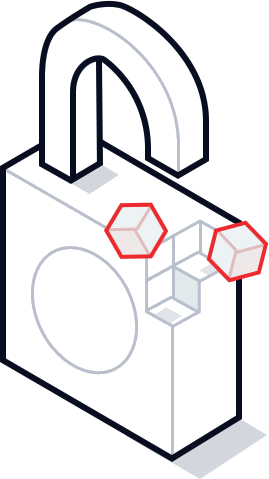
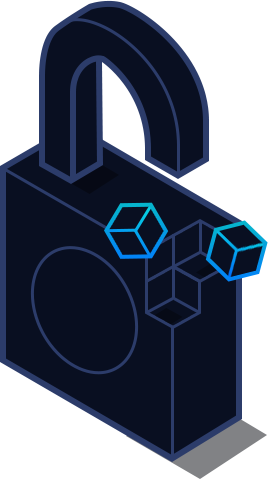
second iteration of dark theme

diff --git a/src/pages/transaction/transaction-send/transaction-send.html b/src/pages/transaction/transaction-send/transaction-send.html
@@ -15,7 +15,7 @@
       <ion-row class="row-contacts">
         <ion-col>
           <ion-item>
-            <ion-label stacked>{{ 'WALLETS_PAGE.ADDRESS' | translate }}</ion-label>
+            <ion-label floating stacked>{{ 'WALLETS_PAGE.ADDRESS' | translate }}</ion-label>
             <ng-template #contactsTemplate let-attrs="attrs">
               <span class="auto-complete-row">
                 <ion-icon [name]="attrs.data.iconName" item-start></ion-icon>
@@ -23,7 +23,7 @@
                   <span [innerHTML]="attrs.data.name | escapeHTML | boldprefix:attrs.keyword"></span>
                   <span class="autocomplete-second-line" [innerHTML]="attrs.data.address | escapeHTML | boldprefix:attrs.keyword"></span>
                 </span>
-                </span>
+              </span>
             </ng-template>
             <ion-auto-complete item-content
                                [dataProvider]="contactsAutoCompleteService"
@@ -38,7 +38,7 @@
                                #searchBar>
             </ion-auto-complete>
             <div class="qr-container" item-right>
-              <img src="./assets/img/light/wallet/qr-code-button.png" tappable (tap)="scanQRCode()" />
+              <img class="image" tappable (tap)="scanQRCode()" />
             </div>
           </ion-item>
         </ion-col>
@@ -46,7 +46,7 @@
       <ion-row *ngIf="transaction.recipientAddress">
         <ion-col>
           <ion-item>
-            <ion-label stacked [ngSwitch]="addressType">
+            <ion-label floating stacked [ngSwitch]="addressType">
               <ng-container *ngSwitchCase="addressTypes.Unknown">{{ 'TRANSACTIONS_PAGE.NEW_CONTACT_NAME' | translate }}</ng-container>
               <ng-container *ngSwitchCase="addressTypes.WalletWithoutLabel">{{ 'TRANSACTIONS_PAGE.NEW_WALLET_LABEL' | translate }}</ng-container>
               <ng-container *ngSwitchCase="addressTypes.WalletWithLabel">{{ 'TRANSACTIONS_PAGE.EXISTING_WALLET' | translate }}</ng-container>
@@ -66,7 +66,7 @@
       <ion-row>
         <ion-col>
           <ion-item>
-            <ion-label stacked>{{ 'TRANSACTIONS_PAGE.SMART_BRIDGE' | translate }}</ion-label>
+            <ion-label floating stacked>{{ 'TRANSACTIONS_PAGE.SMART_BRIDGE' | translate }}</ion-label>
             <ion-input type="text" formControlName="smartBridge" name="smartBridge" [(ngModel)]="transaction.smartBridge" maxlength="60"></ion-input>
           </ion-item>
         </ion-col>

diff --git a/src/pages/transaction/transaction-send/transaction-send.scss b/src/pages/transaction/transaction-send/transaction-send.scss
@@ -18,8 +18,9 @@ page-transaction-send {
     padding-top: 20px;
     margin-left: 8px !important;
 
-    img {
+    .image {
       width: 30px;
+      content: url('../assets/img/light/wallet/qr-code-button.png');
     }
   }
 
@@ -48,7 +49,7 @@ page-transaction-send {
       background-color: transparent !important;
       -webkit-box-shadow: none !important;
       box-shadow: none !important;
-      padding: 6px 35px 6px 10px !important;
+      padding: 6px 35px 6px 0 !important;
     }
 
     ion-list li {
@@ -101,5 +102,36 @@ page-transaction-send {
   .item {
     padding-left: 0;
     background: transparent!important;
+  }
+}
+
+.dark-theme {
+  page-transaction-send {
+    .qr-container .image {
+        content: url('../assets/img/dark/wallet/qr-code-button.png');
+    }
+
+    ion-auto-complete ul {
+      background-color: color($darkColors, secondary-background, base);
+
+      li {
+        border-bottom-color: color($darkColors, primary-background, base);
+      }
+
+      .auto-complete-row {
+        .item-icon {
+          color: #4744f5;
+          -webkit-text-stroke: 0.4px #4744f5;
+        }
+
+        .autocomplete-second-line {
+          color: color($darkColors, secondary, base);
+        }
+      }
+    }
+
+    .icon {
+      color: lighten(color($darkColors, primary-background, base), 50%);
+    }
   }
 }

diff --git a/src/pages/wallet/wallet-dashboard/modal/register-delegate/register-delegate.html b/src/pages/wallet/wallet-dashboard/modal/register-delegate/register-delegate.html
@@ -1,7 +1,7 @@
 <ion-header no-shadow no-border>
 
   <ion-navbar>
-    <h6 text-center class="no-padding no-margin">{{ 'DELEGATES_PAGE.REGISTER_DELEGATE' | translate }}</h6>
+    <h6 padding class="no-margin">{{ 'DELEGATES_PAGE.REGISTER_DELEGATE' | translate }}</h6>
     <ion-buttons end>
       <button ion-button icon-only (click)="closeModal()">
         <ion-icon name="close"></ion-icon>
@@ -17,8 +17,8 @@
       <ion-col align-self-center>
         <form #registerDelegateForm="ngForm">
           <ion-item>
-            <ion-label stacked>{{ 'DELEGATES_PAGE.DELEGATE_NAME' | translate }}</ion-label>
-            <ion-textarea rows="2" type="text" name="name" [(ngModel)]="name" maxlength="20" [pattern]="allowedDelegateNameChars" (input)="validateName()" required></ion-textarea>
+            <ion-label floating stacked>{{ 'DELEGATES_PAGE.DELEGATE_NAME' | translate }}</ion-label>
+            <ion-input rows="2" type="text" name="name" [(ngModel)]="name" maxlength="20" [pattern]="allowedDelegateNameChars" (input)="validateName()" required></ion-input>
           </ion-item>
           <ion-item class="no-border">
             <p class="error-message" *ngIf="isExists">{{ 'DELEGATES_PAGE.USERNAME_ALREADY_EXISTS' | translate }}</p>

diff --git a/src/pages/wallet/wallet-list/wallet-list.scss b/src/pages/wallet/wallet-list/wallet-list.scss
@@ -137,20 +137,22 @@ page-wallet-list {
 
 .dark-theme {
   page-wallet-list {
-    background-color: color($darkColors, primary-background, base);
-
     .toolbar-title,
     .bar-button-default {
       color: #fff !important;
+
+      .icon {
+        color: lighten(color($darkColors, primary-background, base), 50%);
+      }
     }
 
     .content {
       &.normal {
-        background: linear-gradient(0deg, rgba(0,0,0,0) 0%, transparentize(color($darkColors, wallet-normal-gradient, base), 0.80) 70%, color($darkColors, wallet-normal-gradient, base) 100%);
+        background: linear-gradient(0deg, color($darkColors, primary-background, base) 0%, color($darkColors, primary-background, base) 70%, color($darkColors, wallet-normal-gradient, base) 100%);
       }
 
       &.delegate {
-        background: linear-gradient(0deg, rgba(0,0,0,0) 0%, transparentize(color($darkColors, wallet-delegate-gradient, base), 0.80) 70%, color($darkColors, wallet-delegate-gradient, base) 100%);
+        background: linear-gradient(0deg, color($darkColors, primary-background, base) 0%, color($darkColors, primary-background, base) 70%, color($darkColors, wallet-delegate-gradient, base) 100%);
       }
     }
   }

diff --git a/src/app/app.scss b/src/app/app.scss
@@ -298,7 +298,7 @@ ion-app {
       .label {
         color: color($darkColors, secondary, base);
 
-        h3 {
+        h3, h6 {
           color: #fff;
         }
 
@@ -370,6 +370,14 @@ ion-app {
       color: #fff !important;
     }
 
+    .dark-navbar {
+      button {
+        .icon {
+          color: lighten(color($darkColors, primary-background, base), 50%);
+        }
+      }
+    }
+
     .action-sheet-group {
       background-color: color($darkColors, primary-background, base);
     }
@@ -392,5 +400,32 @@ ion-app {
       .button-md-primary {
       }
     }
+  }
+
+  ion-alert {
+    .alert-wrapper {
+      background-color: color($darkColors, primary-background, base) !important;
+      color: #fff;
+
+      .alert-message {
+        color: rgba(255, 255, 255, 0.5);
+      }
+
+      .alert-radio-group {
+        border-color: color($darkColors, secondary-background, base);
+
+        .alert-radio-label {
+          color: #fff;
+        }
+
+        [aria-checked=true] .alert-radio-label {
+          color: color($darkColors, primary, base);
+        }
+      }
+    }
+  }
+
+  .searchbar-input-container .searchbar-input {
+    color: #fff;
   }
 }

diff --git a/src/modals/confirm-transaction/confirm-transaction.scss b/src/modals/confirm-transaction/confirm-transaction.scss
@@ -55,5 +55,36 @@ modal-confirm-transaction {
       padding-left: 7px;
     }
   }
+}
 
+.dark-theme {
+  modal-confirm-transaction {
+    color: #fff;
+
+    .header-row {
+      background-color: color($darkColors, secondary-background, base) !important;
+    }
+
+    .header-toolbar:after {
+      background-image: url('../assets/img/dark/transaction/send-confirm.png');
+    }
+
+    ion-header {
+      background-color: color($darkColors, secondary-background, base) !important;
+    }
+
+    ion-content {
+      background-color: color($darkColors, primary-background, base) !important;
+
+      .scroll-content {
+        .button-clear .icon {
+          color: lighten(color($darkColors, primary-background, base), 50%);
+        }
+      }
+    }
+
+    form .item-block .item-inner {
+      border-bottom: 1px solid color($darkColors, secondary-background, base);
+    }
+  }
 }

diff --git a/src/pages/transaction/transaction-response/transaction-response.scss b/src/pages/transaction/transaction-response/transaction-response.scss
@@ -1,9 +1,17 @@
 page-transaction-response {
-  img {
+  image {
     display: block;
     margin: 1em auto;
     max-width: 70%;
     height: auto;
+
+    &.tx-success {
+      content: url('../assets/img/light/transaction/transfer-success.png');
+    }
+
+    &.tx-error {
+      content: url('../assets/img/light/transaction/transfer-error.png');
+    }
   }
 
   .success-container {
@@ -15,5 +23,20 @@ page-transaction-response {
   .open-explorer-btn {
     margin: 1em auto;
     display: block;
+  }
+}
+
+.dark-theme {
+  page-transaction-response {
+    .image {      
+      &.tx-success {
+        content: url('../assets/img/dark/transaction/transfer-success.png');
+      }
+
+      &.tx-error {
+        // content: url('../assets/img/dark/transaction/transfer-error.png');
+        content: url('../assets/img/light/transaction/transfer-error.png');
+      }
+    }
   }
 }

diff --git a/src/pages/contacts/contact-list/contact-list.ts b/src/pages/contacts/contact-list/contact-list.ts
@@ -41,14 +41,14 @@ export class ContactListPage {
         {
           text: translation.EDIT,
           role: 'label',
-          icon: !this.platform.is('ios') ? 'ios-create-outline' : '',
+          icon: this.platform.is('ios') ? 'ios-create-outline' : 'md-create',
           handler: () => {
             this.openEditPage(address);
           },
         }, {
           text: translation.DELETE,
           role: 'label',
-          icon: !this.platform.is('ios') ? 'ios-trash-outline' : '',
+          icon: this.platform.is('ios') ? 'ios-trash-outline' : 'md-trash',
           handler: () => {
             this.showDeleteConfirm(address);
           },

diff --git a/src/pages/transaction/transaction-response/transaction-response.html b/src/pages/transaction/transaction-response/transaction-response.html
@@ -20,7 +20,7 @@
         <ion-grid class="success-container">
           <ion-row>
             <ion-col text-center align-self-center>
-              <img src="./assets/img/light/transaction/transfer-success.png">
+              <img class="image tx-success">
               <h6>{{ 'TRANSACTIONS_PAGE.SENT_SUCCESS' | translate }}</h6>
             </ion-col>
           </ion-row>
@@ -39,7 +39,7 @@
         </ion-grid>
       </ion-col>
       <ion-col align-self-center *ngIf="!response?.status">
-        <img src="./assets/img/light/transaction/transfer-error.png">
+        <img class="image tx-error">
       </ion-col>
     </ion-row>
   </ion-grid>

diff --git a/src/pages/wallet/wallet-dashboard/modal/set-label/set-label.scss b/src/pages/wallet/wallet-dashboard/modal/set-label/set-label.scss
@@ -13,15 +13,15 @@ page-set-label {
     color: #fff;
 
     ion-header {
-      background-color: color($darkColors, primary-background, base) !important;
-    }
-
-    ion-content {
       background-color: color($darkColors, secondary-background, base) !important;
     }
 
+    ion-content {
+      background-color: color($darkColors, primary-background, base) !important;
+    }
+
     form .item-block .item-inner {
-      border-bottom: 1px solid color($darkColors, primary-background, base);
+      border-bottom: 1px solid color($darkColors, secondary-background, base);
     }
   }
 }

diff --git a/src/pages/wallet/wallet-dashboard/modal/register-delegate/register-delegate.scss b/src/pages/wallet/wallet-dashboard/modal/register-delegate/register-delegate.scss
@@ -11,3 +11,25 @@ page-register-delegate {
     text-transform: lowercase;
   }
 }
+
+.dark-theme {
+  page-register-delegate {
+    color: #fff;
+
+    ion-header {
+      background-color: color($darkColors, secondary-background, base) !important;
+    }
+
+    ion-content {
+      background-color: color($darkColors, primary-background, base) !important;
+    }
+
+    form .item-block .item-inner {
+      border-bottom: 1px solid color($darkColors, secondary-background, base);
+    }
+
+    ion-footer {
+      color: #000;
+    }
+  }
+}

diff --git a/src/pages/contacts/contact-create/contact-create.scss b/src/pages/contacts/contact-create/contact-create.scss
@@ -10,7 +10,7 @@ page-contact-create {
 
       .image {
         width: 30px;
-        url: url('../assets/img/light/wallet/qr-code-button.png');
+        content: url('../assets/img/light/wallet/qr-code-button.png');
       }
     }
   }
@@ -18,7 +18,7 @@ page-contact-create {
 
 .dark-theme {
   page-contact-create {
-    .qr-container .image {
+    ion-item.item-address .qr-container .image {
         content: url('../assets/img/dark/wallet/qr-code-button.png');
     }
   }
